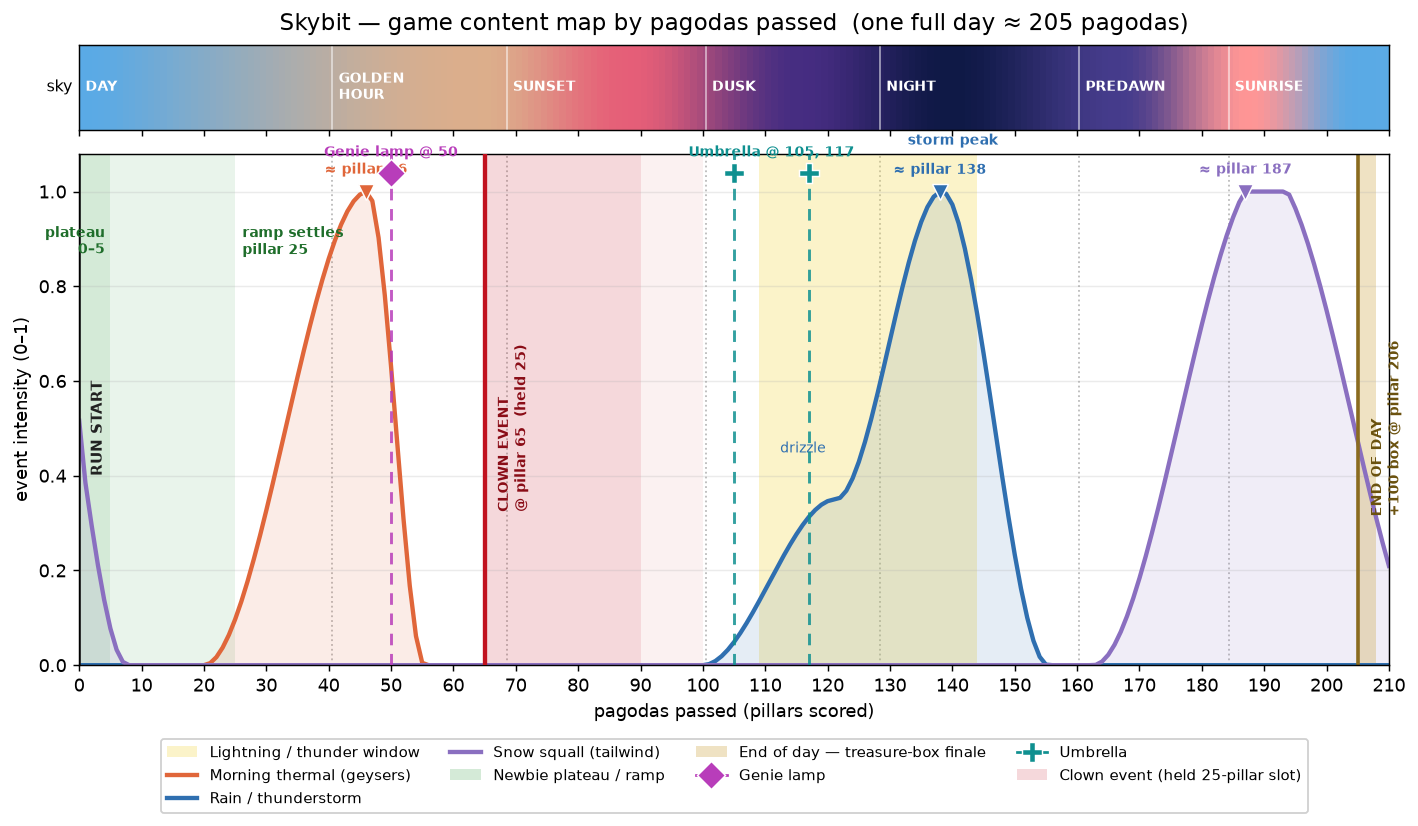
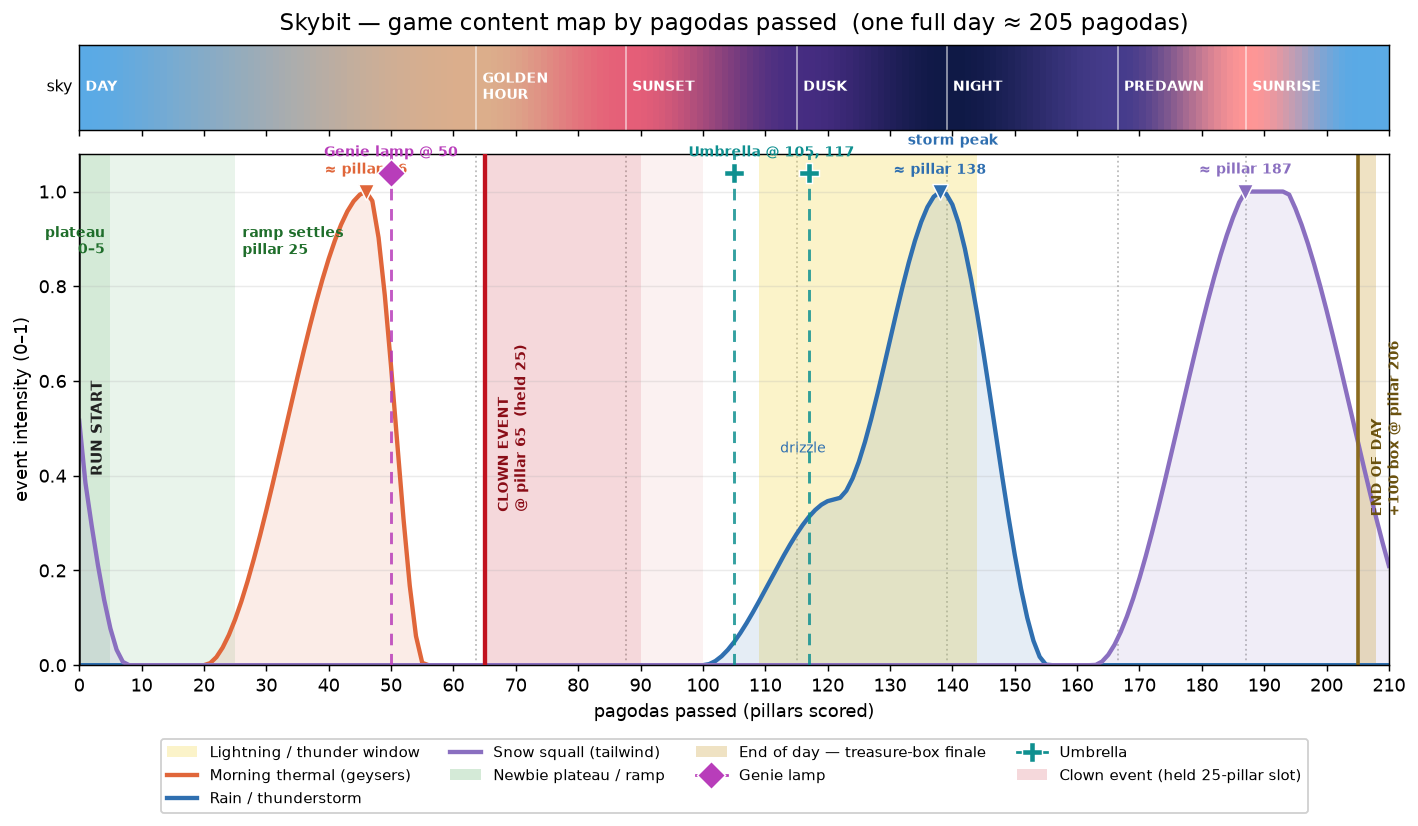
fix(figure): derive biome phase labels from the live keyframes
The content-map's sky strip already coloured from the remapped keyframes, but
the phase LABELS + gridlines were hard-coded to the old 320s-cycle fractions, so
the DAY band's boundary was drawn ~23 pillars too early and the lengthened day
didn't show. Read PHASE_LABELS from biome._KEYFRAMES so the boundaries track the
real (extended) day; DAY now reaches ~pillar 64, up to the clown event.

Claude-Session: https://claude.ai/code/session_01R8Xv9wnQCdkf5ozFZzZReZ

diff --git a/tools/plot_event_pagoda_map.py b/tools/plot_event_pagoda_map.py
@@ -32,16 +32,14 @@ import matplotlib.pyplot as plt
 
 from game import biome, weather, config
 
-# Biome keyframe phase → label (same list the seconds-axis plotter uses).
-PHASE_LABELS = [
-    (0.00000, "DAY"),
-    (0.23125, "GOLDEN\nHOUR"),
-    (0.36250, "SUNSET"),
-    (0.51250, "DUSK"),
-    (0.64375, "NIGHT"),
-    (0.79375, "PREDAWN"),
-    (0.90625, "SUNRISE"),
-]
+# Biome keyframe phase → label, read from the LIVE (possibly remapped) keyframes
+# so the labels/gridlines track the real day length — e.g. the DAY phase grows
+# when the cycle is lengthened to absorb the clown event. Names are in keyframe
+# order; the 8th keyframe is the wrap back to DAY.
+_PHASE_NAMES = ["DAY", "GOLDEN\nHOUR", "SUNSET", "DUSK", "NIGHT", "PREDAWN",
+                "SUNRISE"]
+PHASE_LABELS = [(biome._KEYFRAMES[i][0], _PHASE_NAMES[i])
+                for i in range(len(_PHASE_NAMES))]
 
 # The three gameplay weather events: (label, intensity-fn, colour).
 CURVES = [
